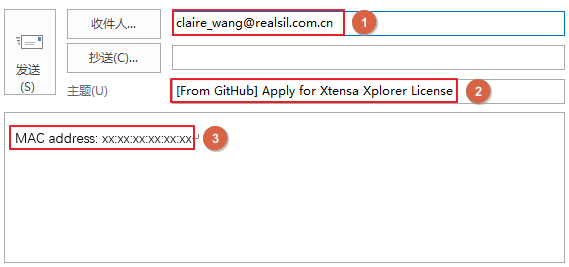
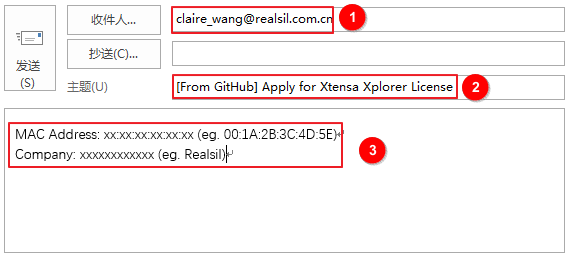
update dsp license

Changed region(s): [[0.0, 0.0, 1.0, 1.0], [0.0, 0.4667, 0.6908, 0.6588], [0.1201, 0.302, 0.2102, 0.3843]]

diff --git a/ameba/src/dsp/dsp_build_environment_cn.rst b/ameba/src/dsp/dsp_build_environment_cn.rst
@@ -1,4 +1,4 @@
-.. _build_environment_for_dsp_cn:
+.. _build_environment_for_dsp:
 
 准备工作
 ----------------------
@@ -45,6 +45,7 @@ Xtensa Xplorer 许可证
    :align: center
 
 .. admonition:: 必需信息
+
    - **MAC地址**
    - **工作单位**
    - **学校/学院** (仅学生)

diff --git a/ameba/src/dsp/dsp_build_environment.rst b/ameba/src/dsp/dsp_build_environment.rst
@@ -45,6 +45,7 @@ When sending the E-mail, the following information is needed:
    :align: center
 
 .. admonition:: Essential Information
+
    - **MAC address**
    - **Company**
    - **University & School** (for students only)
